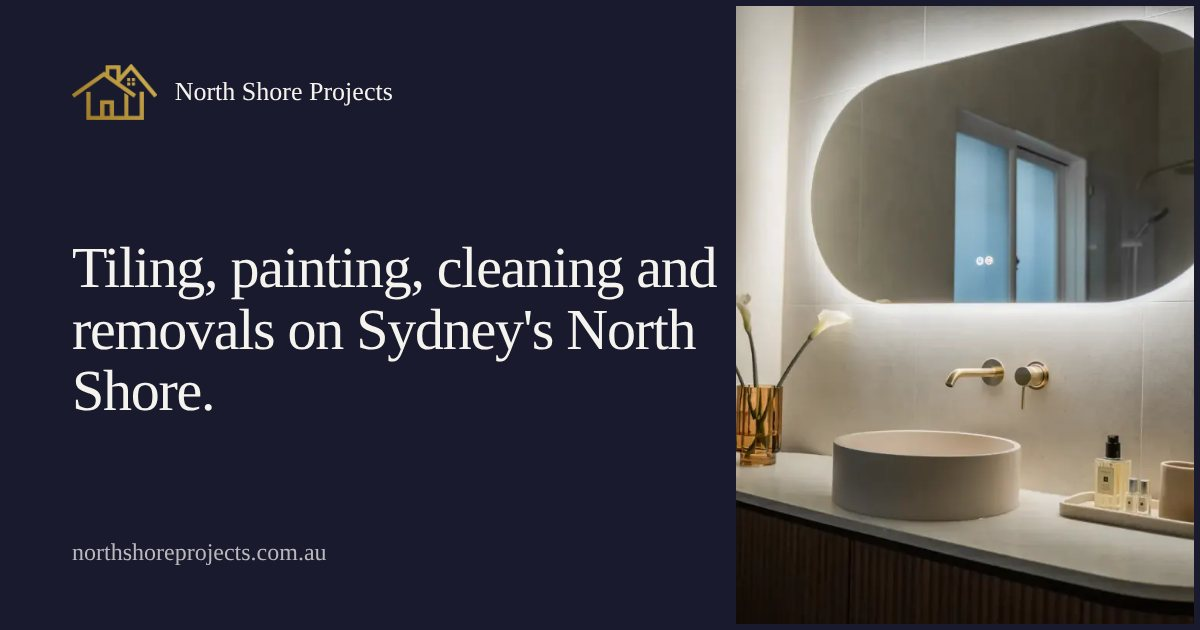
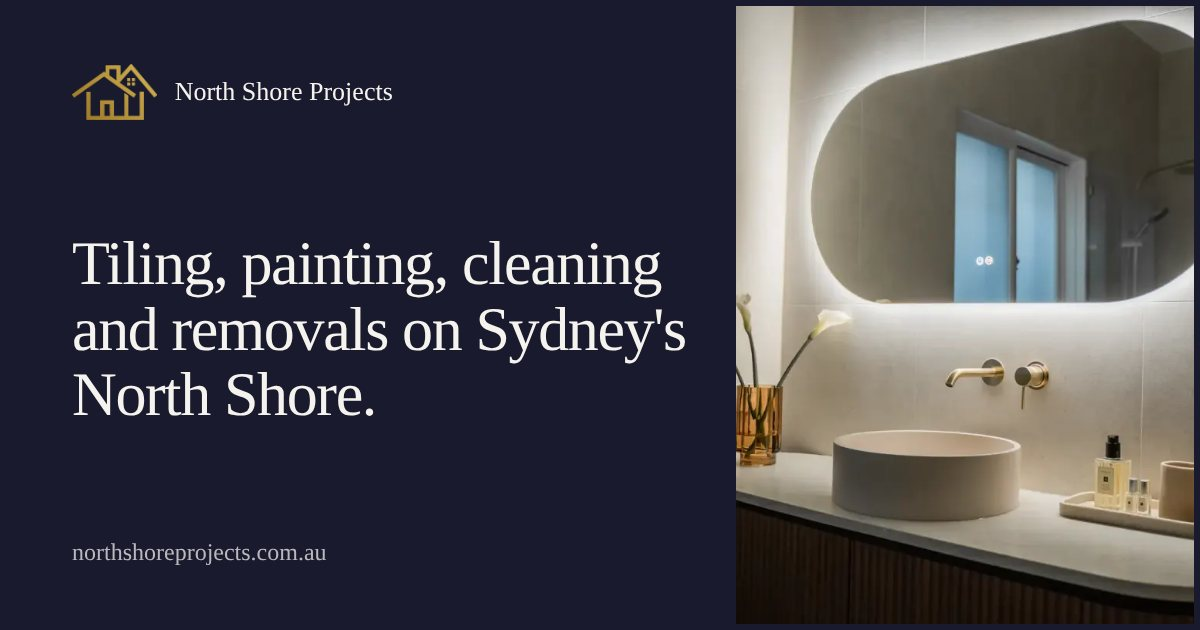
Narrow the headings: 125% width read as stretched
Jack found the wide heading cut unprofessional on short headings
such as "Get a quote". Heading width is now one setting (--wide),
at 106% with weight 350, and the home headline sits on two lines.

Claude-Session: https://claude.ai/code/session_01BiZyScY3BBJ9gNbDrCAq7z

Changed region(s): [[0.0617, 0.3619, 0.6167, 0.6635]]

diff --git a/css/styles.css b/css/styles.css
@@ -1,6 +1,6 @@
 /* North Shore Projects
-   Navy and gold from the logos. One typeface (Archivo): wide and light for headings,
-   normal width for text. Photos sit edge to edge with a thin "grout" gap, like tiles. */
+   Navy and gold from the logos. One typeface (Archivo): a touch wider and lighter for
+   headings, normal width for text. Photos sit edge to edge with a thin "grout" gap, like tiles. */
 
 @font-face {
   font-family: "Archivo";
@@ -26,6 +26,12 @@
   --rule-navy: rgba(245, 243, 238, 0.18);
   --error-navy: #FFB4A8;
   --error: #A3261B;
+
+  /* Heading width. 100% is the normal cut of Archivo, 125% the widest.
+     125% read as stretched on short headings ("Get a quote"), so it sits just past normal. */
+  --wide: 106%;
+  --wide-weight: 350;
+  --semi: 103%;
 
   --grout: 6px;
   --gutter: clamp(1.25rem, 4.4vw, 4rem);
@@ -75,15 +81,15 @@ button { font: inherit; color: inherit; }
 /* ───────── Type ───────── */
 
 .hero-h, .h1, .h2, .suburbs, .statement {
-  font-stretch: 125%;
-  font-weight: 300;
-  letter-spacing: -0.022em;
+  font-stretch: var(--wide);
+  font-weight: var(--wide-weight);
+  letter-spacing: -0.018em;
   line-height: 1.06;
   text-wrap: balance;
 }
 .h1 { font-size: clamp(2.375rem, 5.2vw, 4.75rem); }
 .h2 { font-size: clamp(1.75rem, 3.1vw, 2.875rem); }
-.h3 { font-stretch: 112%; font-weight: 400; font-size: 1.25rem; line-height: 1.25; letter-spacing: -0.008em; }
+.h3 { font-stretch: var(--semi); font-weight: 400; font-size: 1.25rem; line-height: 1.25; letter-spacing: -0.008em; }
 .lead { font-size: clamp(1.0625rem, 1.35vw, 1.25rem); line-height: 1.55; max-width: 34em; }
 
 .link {
@@ -123,7 +129,7 @@ button { font: inherit; color: inherit; }
 }
 .brand { display: flex; align-items: center; gap: 0.75rem; margin-right: auto; min-height: 3rem; }
 .brand-mark { height: 2.125rem; width: auto; }
-.brand-name { font-stretch: 125%; font-weight: 400; font-size: 1rem; letter-spacing: 0.005em; white-space: nowrap; }
+.brand-name { font-stretch: var(--wide); font-weight: 400; font-size: 1rem; letter-spacing: 0.005em; white-space: nowrap; }
 @media (max-width: 23.5rem) { .brand { gap: 0.5rem; } .brand-mark { height: 1.75rem; } .brand-name { font-size: 0.8125rem; } }
 
 .nav { display: none; }
@@ -152,7 +158,7 @@ button { font: inherit; color: inherit; }
 .menu-item { display: block; padding-bottom: 0.5rem; }
 .menu-photo { width: 100%; aspect-ratio: 16 / 9; object-fit: cover; background: var(--navy-lift); transition: opacity 0.2s ease; }
 .menu-item:hover .menu-photo { opacity: 0.86; }
-.menu-name { display: block; margin-top: 0.9rem; padding-right: 1rem; font-stretch: 112%; font-size: 1.125rem; line-height: 1.25; }
+.menu-name { display: block; margin-top: 0.9rem; padding-right: 1rem; font-stretch: var(--semi); font-size: 1.125rem; line-height: 1.25; }
 .menu-item:hover .menu-name, .menu-item[aria-current="page"] .menu-name { color: var(--gold-lit); }
 .menu-sub { display: block; margin-top: 0.2rem; padding-right: 1rem; color: var(--plaster-dim); font-size: 0.9375rem; line-height: 1.4; }
 .menu-foot { max-width: calc(var(--wrap) - var(--gutter) * 2); margin: 1.25rem auto 0; font-size: 0.9375rem; }
@@ -186,7 +192,7 @@ button { font: inherit; color: inherit; }
 .mnav-list a {
   display: flex; align-items: center; min-height: 3.25rem;
   border-bottom: 1px solid var(--rule-navy);
-  font-stretch: 125%; font-weight: 300; font-size: 1.5rem; letter-spacing: -0.015em;
+  font-stretch: var(--wide); font-weight: var(--wide-weight); font-size: 1.5rem; letter-spacing: -0.015em;
 }
 .mnav-list a[aria-current="page"] { color: var(--gold-lit); }
 .mnav-contact { display: flex; flex-direction: column; align-items: flex-start; gap: 0.5rem; margin-top: 2rem; }
@@ -206,7 +212,7 @@ button { font: inherit; color: inherit; }
 
 .hero { padding-top: clamp(2rem, 4.6vw, 4rem); }
 .hero-top { display: grid; gap: 1.5rem; padding-bottom: clamp(1.75rem, 3.2vw, 2.75rem); }
-.hero-h { font-size: clamp(2rem, 3.75vw, 3.75rem); max-width: 22em; }
+.hero-h { font-size: clamp(2rem, 3.6vw, 3.5rem); max-width: 22em; }
 .hero-side { display: grid; gap: 1.25rem; align-content: end; }
 .hero-lead { font-size: clamp(1.0625rem, 1.3vw, 1.1875rem); line-height: 1.55; max-width: 31em; color: var(--plaster); }
 
@@ -235,7 +241,7 @@ button { font: inherit; color: inherit; }
   background: linear-gradient(to top, rgba(16, 16, 29, 0.88) 0%, rgba(16, 16, 29, 0.5) 45%, rgba(16, 16, 29, 0) 100%);
 }
 .panel-label { position: absolute; left: 1.25rem; right: 1.25rem; bottom: 1.25rem; z-index: 1; }
-.panel-name { display: block; font-stretch: 125%; font-weight: 300; font-size: 1.75rem; letter-spacing: -0.02em; line-height: 1.1; }
+.panel-name { display: block; font-stretch: var(--wide); font-weight: var(--wide-weight); font-size: 1.75rem; letter-spacing: -0.02em; line-height: 1.1; }
 .panel-sub { display: block; margin-top: 0.35rem; font-size: 0.9375rem; line-height: 1.4; color: var(--plaster); }
 .panel-bar { display: none; }
 .panels-pause { display: none; }
@@ -349,7 +355,7 @@ button { font: inherit; color: inherit; }
 
 .ratings { border-top: 1px solid var(--rule-navy); margin-bottom: clamp(2rem, 4vw, 3.25rem); }
 .rating { display: grid; gap: 0.15rem 2rem; padding-block: 1rem; border-bottom: 1px solid var(--rule-navy); align-items: center; }
-.rating-team { font-stretch: 112%; font-size: 1.1875rem; }
+.rating-team { font-stretch: var(--semi); font-size: 1.1875rem; }
 .rating-score, .rating-count { font-variant-numeric: tabular-nums; }
 .rating-count { color: var(--plaster-dim); }
 .vh { position: absolute; width: 1px; height: 1px; overflow: hidden; clip-path: inset(50%); white-space: nowrap; }
@@ -360,7 +366,7 @@ button { font: inherit; color: inherit; }
 }
 
 .quote { flex: 0 0 auto; width: min(33rem, 84vw); scroll-snap-align: start; border-top: 1px solid var(--gold); padding: 1.5rem 2rem 0 0; }
-.quote p { font-stretch: 112%; font-weight: 300; font-size: clamp(1.1875rem, 1.6vw, 1.4375rem); line-height: 1.42; letter-spacing: -0.008em; }
+.quote p { font-stretch: var(--semi); font-weight: 300; font-size: clamp(1.1875rem, 1.6vw, 1.4375rem); line-height: 1.42; letter-spacing: -0.008em; }
 .quote footer { margin-top: 1.25rem; color: var(--plaster-dim); font-size: 0.9375rem; }
 .quote footer a { color: var(--plaster); text-decoration: underline; text-decoration-thickness: 1px; text-underline-offset: 0.3em; text-decoration-color: rgba(245, 243, 238, 0.4); }
 .quote footer a:hover { text-decoration-color: currentColor; }
@@ -372,7 +378,7 @@ button { font: inherit; color: inherit; }
 
 .quote-grid { display: grid; gap: 2rem; }
 .quote-grid li { border-top: 1px solid var(--brass); padding-top: 1.25rem; }
-.quote-grid p { font-stretch: 112%; font-weight: 300; font-size: clamp(1.125rem, 1.5vw, 1.3125rem); line-height: 1.45; }
+.quote-grid p { font-stretch: var(--semi); font-weight: 300; font-size: clamp(1.125rem, 1.5vw, 1.3125rem); line-height: 1.45; }
 @media (min-width: 56rem) { .quote-grid { grid-template-columns: repeat(3, 1fr); gap: 2.5rem; } }
 .carousel--quotes .carousel-count { display: none; }
 
@@ -382,7 +388,7 @@ button { font: inherit; color: inherit; }
 .index-row { display: grid; gap: 1.25rem; padding-block: 2rem; border-top: 1px solid var(--rule); }
 .index-row:last-child { border-bottom: 1px solid var(--rule); }
 .index-name { display: flex; align-items: center; gap: 1rem; }
-.index-name .h3 { font-size: clamp(1.375rem, 2vw, 1.75rem); font-stretch: 125%; font-weight: 300; letter-spacing: -0.018em; }
+.index-name .h3 { font-size: clamp(1.375rem, 2vw, 1.75rem); font-stretch: var(--wide); font-weight: var(--wide-weight); letter-spacing: -0.018em; }
 .index-name a { display: inline-flex; align-items: center; min-height: 2.75rem; }
 .index-name a:hover { text-decoration: underline; text-decoration-thickness: 1px; text-underline-offset: 0.25em; }
 .index-mark { flex: none; width: 3.25rem; height: 2.5rem; background: var(--navy); -webkit-mask: var(--m) center / contain no-repeat; mask: var(--m) center / contain no-repeat; }
@@ -436,7 +442,7 @@ button { font: inherit; color: inherit; }
 .social-mark { height: 2.25rem; width: 3.25rem; object-fit: contain; flex: none; }
 .social-text { display: block; }
 .social-name { display: block; color: var(--plaster-dim); font-size: 0.9375rem; line-height: 1.3; }
-.social-handle { display: block; font-stretch: 112%; font-size: 1.125rem; line-height: 1.35; }
+.social-handle { display: block; font-stretch: var(--semi); font-size: 1.125rem; line-height: 1.35; }
 .social:hover .social-handle { color: var(--gold-lit); }
 @media (min-width: 40rem) { .socials { grid-template-columns: 1fr 1fr; column-gap: 3rem; } }
 @media (min-width: 75rem) { .socials { grid-template-columns: repeat(4, 1fr); column-gap: 2rem; } .social { border-bottom: 0; } }
@@ -460,7 +466,7 @@ button { font: inherit; color: inherit; }
 
 .direct { display: grid; gap: 1.25rem; margin-top: 2.25rem; }
 .direct dt { color: var(--plaster-dim); font-size: 0.9375rem; }
-.direct dd a { display: inline-flex; align-items: center; min-height: 2.75rem; font-stretch: 112%; font-size: 1.375rem; font-variant-numeric: tabular-nums; }
+.direct dd a { display: inline-flex; align-items: center; min-height: 2.75rem; font-stretch: var(--semi); font-size: 1.375rem; font-variant-numeric: tabular-nums; }
 .direct dd a:hover { color: var(--gold-lit); }
 .direct--stack { margin-top: 0; }
 .direct--stack dd a { font-size: 1.125rem; word-break: break-word; }
@@ -510,7 +516,7 @@ button { font: inherit; color: inherit; }
 .form-status a { text-decoration: underline; text-underline-offset: 0.25em; }
 .form-done { padding: 2rem 0; border-top: 1px solid var(--gold); border-bottom: 1px solid var(--rule-navy); }
 .form-done:focus { outline: none; }
-.form-done-h { font-stretch: 125%; font-weight: 300; font-size: clamp(1.75rem, 2.6vw, 2.25rem); letter-spacing: -0.02em; line-height: 1.1; margin-bottom: 0.75rem; }
+.form-done-h { font-stretch: var(--wide); font-weight: var(--wide-weight); font-size: clamp(1.75rem, 2.6vw, 2.25rem); letter-spacing: -0.02em; line-height: 1.1; margin-bottom: 0.75rem; }
 
 /* ───────── Page heads (inner pages) ───────── */
 
@@ -547,15 +553,15 @@ button { font: inherit; color: inherit; }
 @media (min-width: 64rem) { .offers { grid-template-columns: minmax(0, 1fr) minmax(0, 2fr); gap: 4rem; } }
 .offer { display: grid; gap: 0.15rem 2rem; padding-block: 1.1rem; border-top: 1px solid var(--rule); }
 .offer:last-child { border-bottom: 1px solid var(--rule); }
-.offer dt { font-stretch: 112%; font-size: 1.1875rem; line-height: 1.3; }
+.offer dt { font-stretch: var(--semi); font-size: 1.1875rem; line-height: 1.3; }
 .offer dd { color: var(--slate); }
 @media (min-width: 40rem) { .offer { grid-template-columns: minmax(0, 1fr) minmax(0, 1.3fr); align-items: baseline; } }
 
 .steps { counter-reset: step; display: grid; gap: 0; }
 .step { counter-increment: step; display: grid; grid-template-columns: 2.5rem 1fr; gap: 0.1rem 0.5rem; padding-block: 1.1rem; border-top: 1px solid var(--rule); }
 .step:last-child { border-bottom: 1px solid var(--rule); }
-.step::before { content: counter(step); grid-row: 1 / span 2; font-stretch: 125%; font-weight: 300; font-size: 1.5rem; line-height: 1.2; color: var(--brass); }
-.step-t { font-stretch: 112%; font-weight: 400; font-size: 1.1875rem; line-height: 1.3; }
+.step::before { content: counter(step); grid-row: 1 / span 2; font-stretch: var(--wide); font-weight: var(--wide-weight); font-size: 1.5rem; line-height: 1.2; color: var(--brass); }
+.step-t { font-stretch: var(--semi); font-weight: 400; font-size: 1.1875rem; line-height: 1.3; }
 .step p { grid-column: 2; color: var(--slate); }
 
 /* ───────── Service page close ───────── */
@@ -569,14 +575,14 @@ button { font: inherit; color: inherit; }
 .other { display: block; }
 .other-img { width: 100%; aspect-ratio: 3 / 2; object-fit: cover; transition: opacity 0.2s ease; }
 .other:hover .other-img { opacity: 0.86; }
-.other-name { display: block; margin-top: 0.9rem; font-stretch: 125%; font-weight: 300; font-size: 1.5rem; letter-spacing: -0.018em; line-height: 1.15; }
+.other-name { display: block; margin-top: 0.9rem; font-stretch: var(--wide); font-weight: var(--wide-weight); font-size: 1.5rem; letter-spacing: -0.018em; line-height: 1.15; }
 .other:hover .other-name { color: var(--gold-lit); }
 .other-sub { display: block; margin-top: 0.3rem; color: var(--plaster-dim); font-size: 0.9375rem; }
 
 /* ───────── Legal ───────── */
 
 .legal { max-width: calc(44rem + var(--gutter) * 2); margin-left: 0; }
-.legal h2 { font-stretch: 112%; font-weight: 500; font-size: 1.25rem; margin: 2.25rem 0 0.6rem; }
+.legal h2 { font-stretch: var(--semi); font-weight: 500; font-size: 1.25rem; margin: 2.25rem 0 0.6rem; }
 .legal p, .legal ul { margin-bottom: 1rem; }
 .legal ul { list-style: disc; padding-left: 1.25rem; }
 .legal li { margin-bottom: 0.35rem; }
@@ -588,7 +594,7 @@ button { font: inherit; color: inherit; }
 .site-footer { background: var(--night); color: var(--plaster); padding-top: clamp(3.5rem, 6vw, 5.5rem); }
 .footer-grid { display: grid; gap: 2.5rem; }
 .footer-mark { height: 3.25rem; width: auto; }
-.footer-name { margin-top: 1rem; font-stretch: 125%; font-size: 1.125rem; }
+.footer-name { margin-top: 1rem; font-stretch: var(--wide); font-size: 1.125rem; }
 .footer-note { margin-top: 0.5rem; max-width: 20em; color: var(--plaster-dim); font-size: 0.9375rem; }
 .footer-h { font-size: 0.9375rem; font-weight: 500; color: var(--plaster-dim); margin-bottom: 0.5rem; }
 .footer-list a { display: inline-flex; align-items: center; min-height: 2.75rem; word-break: break-word; }

diff --git a/index.html b/index.html
@@ -22,7 +22,7 @@
 <link rel="icon" href="/images/favicon-192.png" sizes="192x192" type="image/png">
 <link rel="apple-touch-icon" href="/images/apple-touch-icon.png">
 <link rel="preload" href="/fonts/archivo-latin-wdth-normal.woff2" as="font" type="font/woff2" crossorigin>
-<link rel="stylesheet" href="/css/styles.css?v=1">
+<link rel="stylesheet" href="/css/styles.css?v=2">
 <script>document.documentElement.classList.add('js')</script>
 <script type="application/ld+json">{"@context":"https://schema.org","@type":"Organization","name":"North Shore Projects","url":"https://northshoreprojects.com.au/","email":"northshoreprojects@gmail.com","telephone":"+61433333332","areaServed":"North Shore, Sydney NSW"}</script>
 </head>
@@ -645,6 +645,6 @@
     </ul>
   </div>
 </footer>
-<script src="/js/main.js?v=1" defer></script>
+<script src="/js/main.js?v=2" defer></script>
 </body>
 </html>

diff --git a/404.html b/404.html
@@ -22,7 +22,7 @@
 <link rel="icon" href="/images/favicon-192.png" sizes="192x192" type="image/png">
 <link rel="apple-touch-icon" href="/images/apple-touch-icon.png">
 <link rel="preload" href="/fonts/archivo-latin-wdth-normal.woff2" as="font" type="font/woff2" crossorigin>
-<link rel="stylesheet" href="/css/styles.css?v=1">
+<link rel="stylesheet" href="/css/styles.css?v=2">
 <script>document.documentElement.classList.add('js')</script>
 </head>
 <body>
@@ -191,6 +191,6 @@
     </ul>
   </div>
 </footer>
-<script src="/js/main.js?v=1" defer></script>
+<script src="/js/main.js?v=2" defer></script>
 </body>
 </html>

diff --git a/cleaning.html b/cleaning.html
@@ -22,7 +22,7 @@
 <link rel="icon" href="/images/favicon-192.png" sizes="192x192" type="image/png">
 <link rel="apple-touch-icon" href="/images/apple-touch-icon.png">
 <link rel="preload" href="/fonts/archivo-latin-wdth-normal.woff2" as="font" type="font/woff2" crossorigin>
-<link rel="stylesheet" href="/css/styles.css?v=1">
+<link rel="stylesheet" href="/css/styles.css?v=2">
 <script>document.documentElement.classList.add('js')</script>
 </head>
 <body>
@@ -274,6 +274,6 @@
     </ul>
   </div>
 </footer>
-<script src="/js/main.js?v=1" defer></script>
+<script src="/js/main.js?v=2" defer></script>
 </body>
 </html>

diff --git a/contact.html b/contact.html
@@ -22,7 +22,7 @@
 <link rel="icon" href="/images/favicon-192.png" sizes="192x192" type="image/png">
 <link rel="apple-touch-icon" href="/images/apple-touch-icon.png">
 <link rel="preload" href="/fonts/archivo-latin-wdth-normal.woff2" as="font" type="font/woff2" crossorigin>
-<link rel="stylesheet" href="/css/styles.css?v=1">
+<link rel="stylesheet" href="/css/styles.css?v=2">
 <script>document.documentElement.classList.add('js')</script>
 </head>
 <body>
@@ -275,6 +275,6 @@
     </ul>
   </div>
 </footer>
-<script src="/js/main.js?v=1" defer></script>
+<script src="/js/main.js?v=2" defer></script>
 </body>
 </html>

diff --git a/painting.html b/painting.html
@@ -22,7 +22,7 @@
 <link rel="icon" href="/images/favicon-192.png" sizes="192x192" type="image/png">
 <link rel="apple-touch-icon" href="/images/apple-touch-icon.png">
 <link rel="preload" href="/fonts/archivo-latin-wdth-normal.woff2" as="font" type="font/woff2" crossorigin>
-<link rel="stylesheet" href="/css/styles.css?v=1">
+<link rel="stylesheet" href="/css/styles.css?v=2">
 <script>document.documentElement.classList.add('js')</script>
 </head>
 <body>
@@ -301,6 +301,6 @@
     </ul>
   </div>
 </footer>
-<script src="/js/main.js?v=1" defer></script>
+<script src="/js/main.js?v=2" defer></script>
 </body>
 </html>

diff --git a/privacy.html b/privacy.html
@@ -22,7 +22,7 @@
 <link rel="icon" href="/images/favicon-192.png" sizes="192x192" type="image/png">
 <link rel="apple-touch-icon" href="/images/apple-touch-icon.png">
 <link rel="preload" href="/fonts/archivo-latin-wdth-normal.woff2" as="font" type="font/woff2" crossorigin>
-<link rel="stylesheet" href="/css/styles.css?v=1">
+<link rel="stylesheet" href="/css/styles.css?v=2">
 <script>document.documentElement.classList.add('js')</script>
 </head>
 <body>
@@ -220,6 +220,6 @@
     </ul>
   </div>
 </footer>
-<script src="/js/main.js?v=1" defer></script>
+<script src="/js/main.js?v=2" defer></script>
 </body>
 </html>

diff --git a/projects.html b/projects.html
@@ -22,7 +22,7 @@
 <link rel="icon" href="/images/favicon-192.png" sizes="192x192" type="image/png">
 <link rel="apple-touch-icon" href="/images/apple-touch-icon.png">
 <link rel="preload" href="/fonts/archivo-latin-wdth-normal.woff2" as="font" type="font/woff2" crossorigin>
-<link rel="stylesheet" href="/css/styles.css?v=1">
+<link rel="stylesheet" href="/css/styles.css?v=2">
 <script>document.documentElement.classList.add('js')</script>
 </head>
 <body>
@@ -520,6 +520,6 @@
     </ul>
   </div>
 </footer>
-<script src="/js/main.js?v=1" defer></script>
+<script src="/js/main.js?v=2" defer></script>
 </body>
 </html>

diff --git a/removals.html b/removals.html
@@ -22,7 +22,7 @@
 <link rel="icon" href="/images/favicon-192.png" sizes="192x192" type="image/png">
 <link rel="apple-touch-icon" href="/images/apple-touch-icon.png">
 <link rel="preload" href="/fonts/archivo-latin-wdth-normal.woff2" as="font" type="font/woff2" crossorigin>
-<link rel="stylesheet" href="/css/styles.css?v=1">
+<link rel="stylesheet" href="/css/styles.css?v=2">
 <script>document.documentElement.classList.add('js')</script>
 </head>
 <body>
@@ -274,6 +274,6 @@
     </ul>
   </div>
 </footer>
-<script src="/js/main.js?v=1" defer></script>
+<script src="/js/main.js?v=2" defer></script>
 </body>
 </html>

diff --git a/terms.html b/terms.html
@@ -22,7 +22,7 @@
 <link rel="icon" href="/images/favicon-192.png" sizes="192x192" type="image/png">
 <link rel="apple-touch-icon" href="/images/apple-touch-icon.png">
 <link rel="preload" href="/fonts/archivo-latin-wdth-normal.woff2" as="font" type="font/woff2" crossorigin>
-<link rel="stylesheet" href="/css/styles.css?v=1">
+<link rel="stylesheet" href="/css/styles.css?v=2">
 <script>document.documentElement.classList.add('js')</script>
 </head>
 <body>
@@ -213,6 +213,6 @@
     </ul>
   </div>
 </footer>
-<script src="/js/main.js?v=1" defer></script>
+<script src="/js/main.js?v=2" defer></script>
 </body>
 </html>

diff --git a/tiling.html b/tiling.html
@@ -22,7 +22,7 @@
 <link rel="icon" href="/images/favicon-192.png" sizes="192x192" type="image/png">
 <link rel="apple-touch-icon" href="/images/apple-touch-icon.png">
 <link rel="preload" href="/fonts/archivo-latin-wdth-normal.woff2" as="font" type="font/woff2" crossorigin>
-<link rel="stylesheet" href="/css/styles.css?v=1">
+<link rel="stylesheet" href="/css/styles.css?v=2">
 <script>document.documentElement.classList.add('js')</script>
 </head>
 <body>
@@ -373,6 +373,6 @@
     </ul>
   </div>
 </footer>
-<script src="/js/main.js?v=1" defer></script>
+<script src="/js/main.js?v=2" defer></script>
 </body>
 </html>

diff --git a/CLAUDE.md b/CLAUDE.md
@@ -26,7 +26,7 @@ One website for four sister businesses: North Shore Tiling, North Shore Painting
 
 ## Design
 - Navy `#1A1A2E`, gold `#C19A6B` (from the logos), porcelain `#F1F2F4` for light sections. Tokens at the top of `styles.css`.
-- One typeface, Archivo (self-hosted, OFL): wide and light for headings (`font-stretch: 125%`, weight 300), normal width for text.
+- One typeface, Archivo (self-hosted, OFL). Headings are slightly wider and lighter than the text (`--wide: 106%`, weight 350, set at the top of `styles.css`). The first build used 125% and Jack found it too stretched; do not widen it again.
 - Square corners and a 6px gap between photos (`--grout`), like tiles.
 - One entrance animation on the site: the home hero. Nothing else animates on scroll.
 - Home hero: four service panels. On screens 1024px and wider the active panel is open and they advance every 6 seconds (Pause button, stops on hover and focus, off for reduced motion). Narrower screens get a row you swipe.
